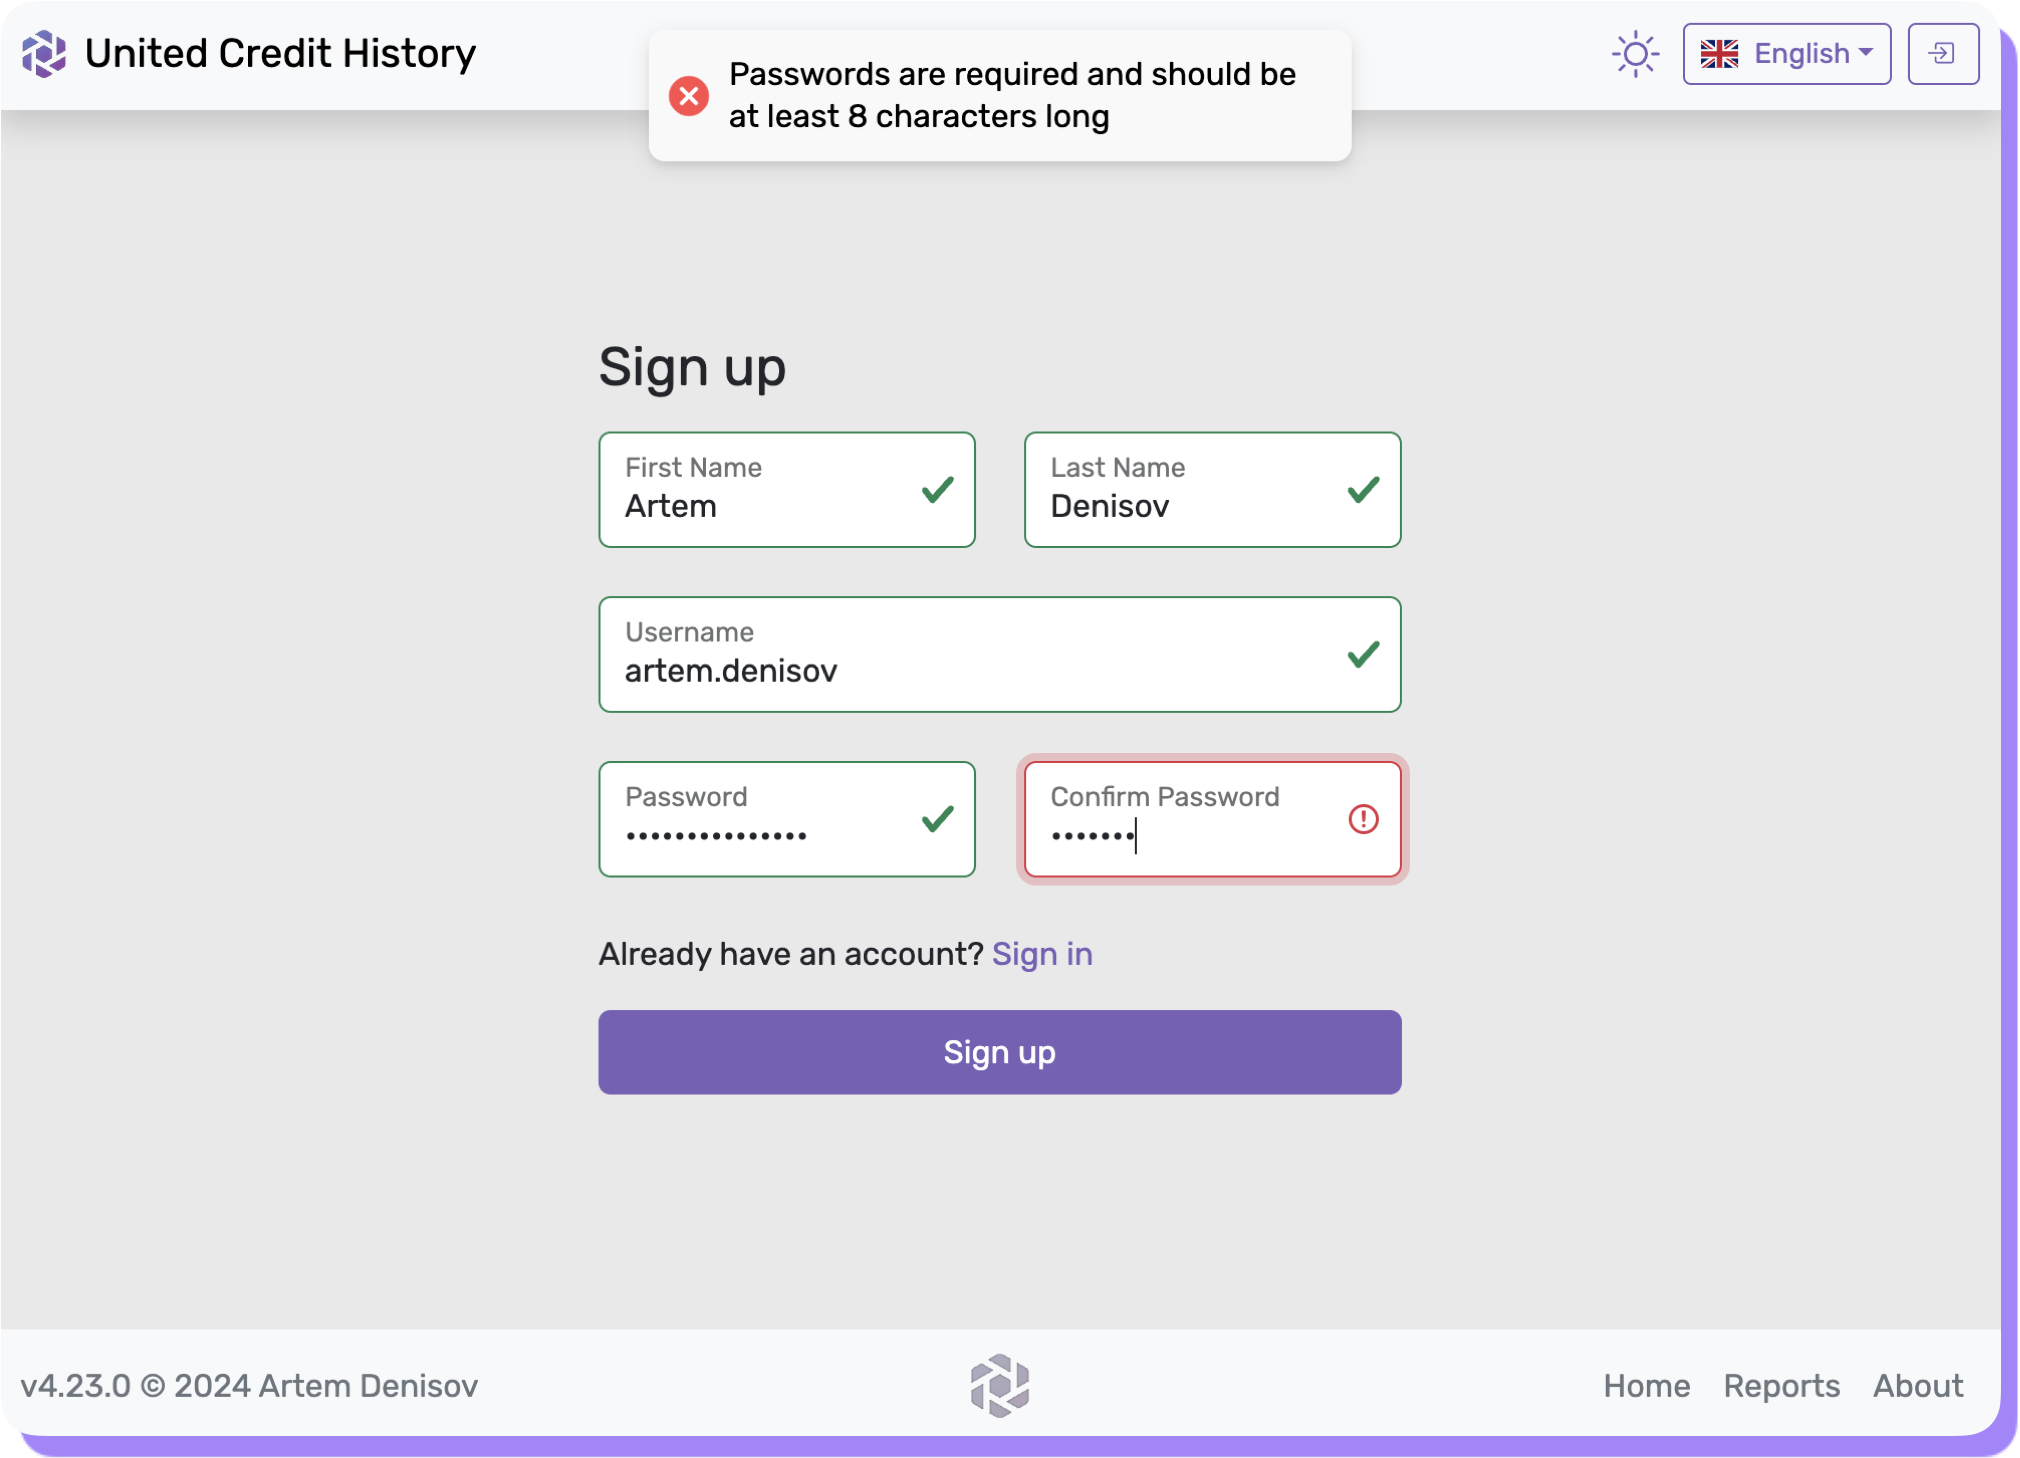
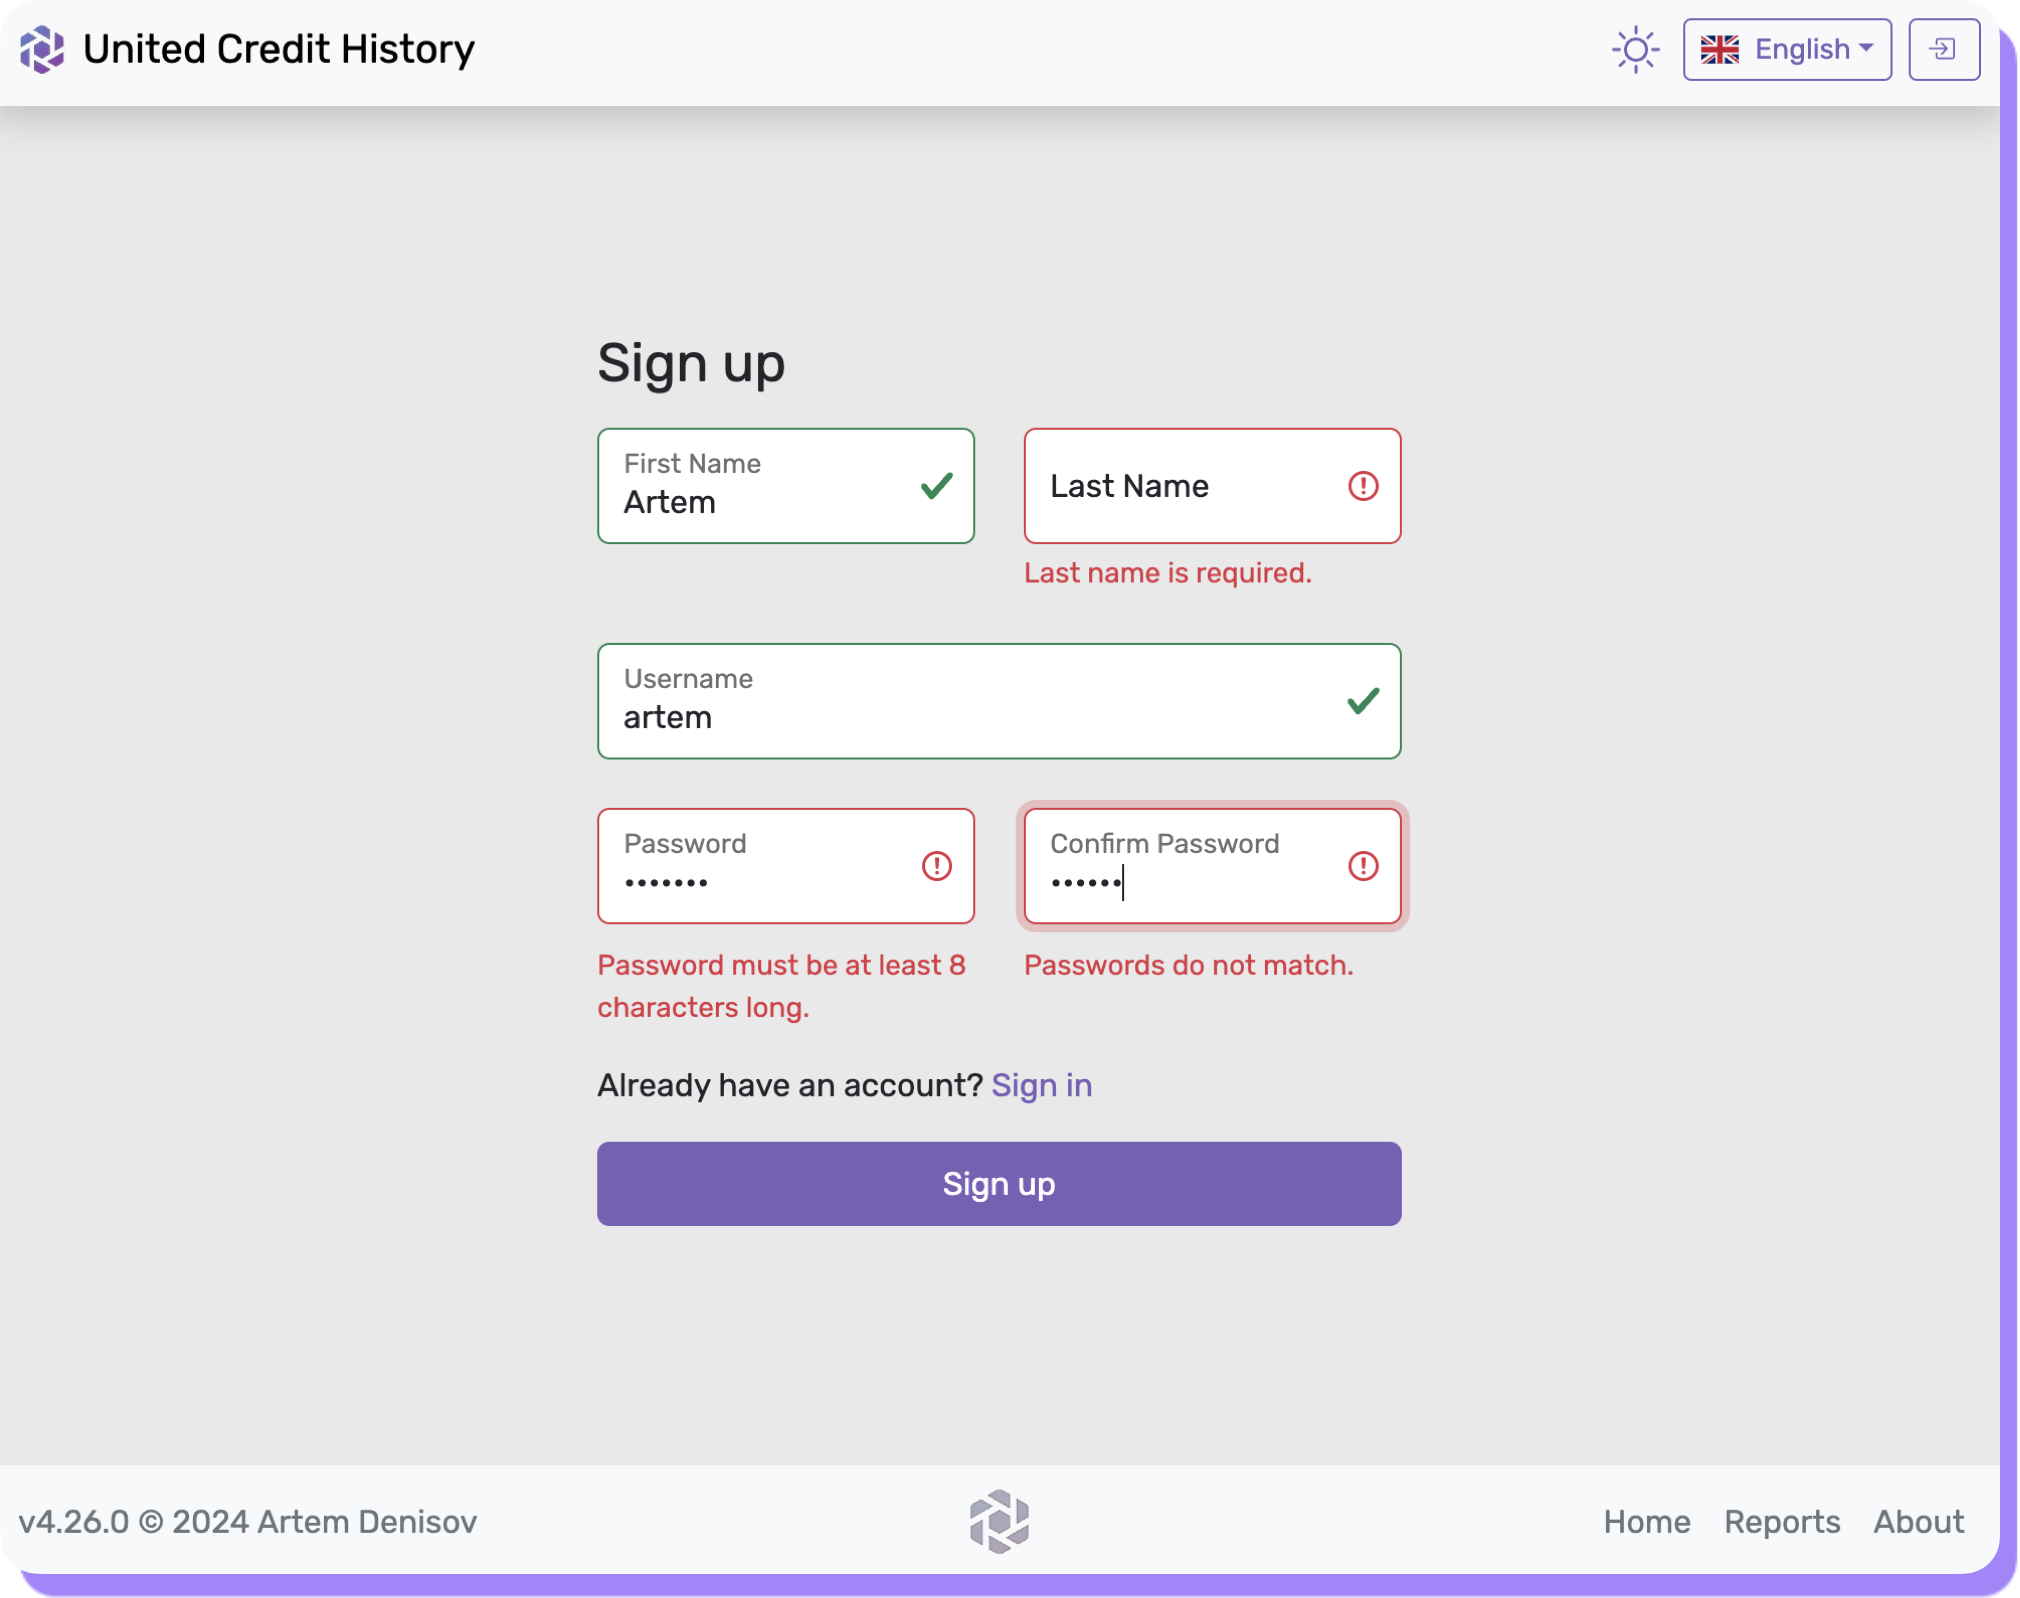
DEV-164 Registration Form Validation

diff --git a/src/pages/Register.tsx b/src/pages/Register.tsx
@@ -11,21 +11,35 @@ import { selectTheme } from "../features/theme";
 import { useLocalStorage } from "../hooks";
 import { isDataMessageError, isFetchBaseQueryError } from "../utils";
 
+type Field =
+    | "firstName"
+    | "lastName"
+    | "username"
+    | "password"
+    | "confirmPassword";
+
+interface ErrorData extends Partial<Record<Field, boolean>> {}
+
+interface FormData extends Record<Field, string> {}
+
 const Register = () => {
     const navigate = useNavigate();
     const { t } = useTranslation(["auth"]);
 
     const theme = useAppSelector(selectTheme);
-    const [username, setUsername] = useLocalStorage("username", "");
+    const [storageUsername, setStorageUsername] = useLocalStorage(
+        "username",
+        ""
+    );
 
     const firstNameRef = useRef<HTMLInputElement>(null);
     const [status, setStatus] = useState("idle");
-    const [validated, setValidated] = useState(false);
+    const [errorData, setErrorData] = useState<ErrorData>({});
 
-    const [formData, setFormData] = useState({
+    const [formData, setFormData] = useState<FormData>({
         firstName: "",
         lastName: "",
-        username: username || "",
+        username: storageUsername || "",
         password: "",
         confirmPassword: "",
     });
@@ -36,25 +50,58 @@ const Register = () => {
         firstNameRef.current?.focus();
     }, []);
 
+    const validateForm = () => {
+        const newErrors: ErrorData = {};
+
+        const validateField = (field: Field) => {
+            if (!formData[field]) newErrors[field] = true;
+        };
+
+        validateField("firstName");
+        validateField("lastName");
+        validateField("username");
+
+        if (formData.password.length < 8) {
+            newErrors.password = true;
+        }
+
+        if (
+            !formData.confirmPassword ||
+            formData.confirmPassword !== formData.password
+        ) {
+            newErrors.confirmPassword = true;
+        }
+
+        setErrorData(newErrors);
+
+        return Object.keys(newErrors).length === 0;
+    };
+
     const handleFormData = (e: ChangeEvent<HTMLInputElement>) => {
         const { id, value } = e.target;
         const newFormData = { ...formData, [id]: value };
 
         if (id === "firstName" || id === "lastName") {
-            newFormData.username = [newFormData.firstName, newFormData.lastName]
+            const newUsername = [newFormData.firstName, newFormData.lastName]
                 .filter(Boolean)
                 .join(".")
                 .toLowerCase();
+
+            newFormData.username = newUsername;
+            setErrorData((prev) => ({ ...prev, username: false }));
         }
 
         setFormData(newFormData);
+        setErrorData((prev) => ({ ...prev, [id]: "" }));
     };
 
     const handleSubmit = (e: FormEvent<HTMLFormElement>) => {
         e.preventDefault();
-        setValidated(true);
+
+        if (!validateForm()) return;
+
         setStatus("loading");
-        setUsername(formData.username);
+        setStorageUsername(formData.username);
 
         const runRegisterUser = async () => {
             try {
@@ -86,23 +133,23 @@ const Register = () => {
     return (
         <section className={classNames("uch-register", "my-10", "m-auto")}>
             <h1 className="h3 mb-3 fw-normal">{t("titles.register")}</h1>
-            <Form
-                className={validated ? "was-validated" : undefined}
-                noValidate
-                onSubmit={handleSubmit}
-            >
+            <Form noValidate onSubmit={handleSubmit}>
                 <Row className="mb-4">
                     <Col>
                         <Form.Floating>
                             <Form.Control
                                 id="firstName"
+                                isInvalid={errorData.firstName}
+                                isValid={!!formData.firstName}
                                 onChange={handleFormData}
                                 placeholder={t("labels.firstName")}
                                 ref={firstNameRef}
-                                required
                                 type="text"
                                 value={formData.firstName}
                             />
+                            <Form.Control.Feedback type="invalid">
+                                {t("errors.firstName")}
+                            </Form.Control.Feedback>
                             <Form.Label htmlFor="firstName">
                                 {t("labels.firstName")}
                             </Form.Label>
@@ -112,12 +159,16 @@ const Register = () => {
                         <Form.Floating>
                             <Form.Control
                                 id="lastName"
+                                isInvalid={errorData.lastName}
+                                isValid={!!formData.lastName}
                                 onChange={handleFormData}
                                 placeholder={t("labels.lastName")}
-                                required
                                 type="text"
                                 value={formData.lastName}
                             />
+                            <Form.Control.Feedback type="invalid">
+                                {t("errors.lastName")}
+                            </Form.Control.Feedback>
                             <Form.Label htmlFor="lastName">
                                 {t("labels.lastName")}
                             </Form.Label>
@@ -128,12 +179,16 @@ const Register = () => {
                 <Form.Floating>
                     <Form.Control
                         id="username"
+                        isInvalid={errorData.username}
+                        isValid={!!formData.username}
                         onChange={handleFormData}
                         placeholder={t("labels.username")}
-                        required
                         type="text"
                         value={formData.username}
                     />
+                    <Form.Control.Feedback type="invalid">
+                        {t("errors.username")}
+                    </Form.Control.Feedback>
                     <Form.Label htmlFor="username">
                         {t("labels.username")}
                     </Form.Label>
@@ -144,13 +199,16 @@ const Register = () => {
                         <Form.Floating>
                             <Form.Control
                                 id="password"
-                                minLength={8}
+                                isInvalid={errorData.password}
+                                isValid={formData.password.length >= 8}
                                 onChange={handleFormData}
                                 placeholder={t("labels.password")}
-                                required
                                 type="password"
                                 value={formData.password}
                             />
+                            <Form.Control.Feedback type="invalid">
+                                {t("errors.password")}
+                            </Form.Control.Feedback>
                             <Form.Label htmlFor="password">
                                 {t("labels.password")}
                             </Form.Label>
@@ -160,13 +218,16 @@ const Register = () => {
                         <Form.Floating>
                             <Form.Control
                                 id="confirmPassword"
-                                minLength={8}
+                                isInvalid={errorData.confirmPassword}
+                                isValid={formData.confirmPassword.length >= 8}
                                 onChange={handleFormData}
                                 placeholder={t("labels.confirmPassword")}
-                                required
                                 type="password"
                                 value={formData.confirmPassword}
                             />
+                            <Form.Control.Feedback type="invalid">
+                                {t("errors.confirmPassword")}
+                            </Form.Control.Feedback>
                             <Form.Label htmlFor="confirmPassword">
                                 {t("labels.confirmPassword")}
                             </Form.Label>
